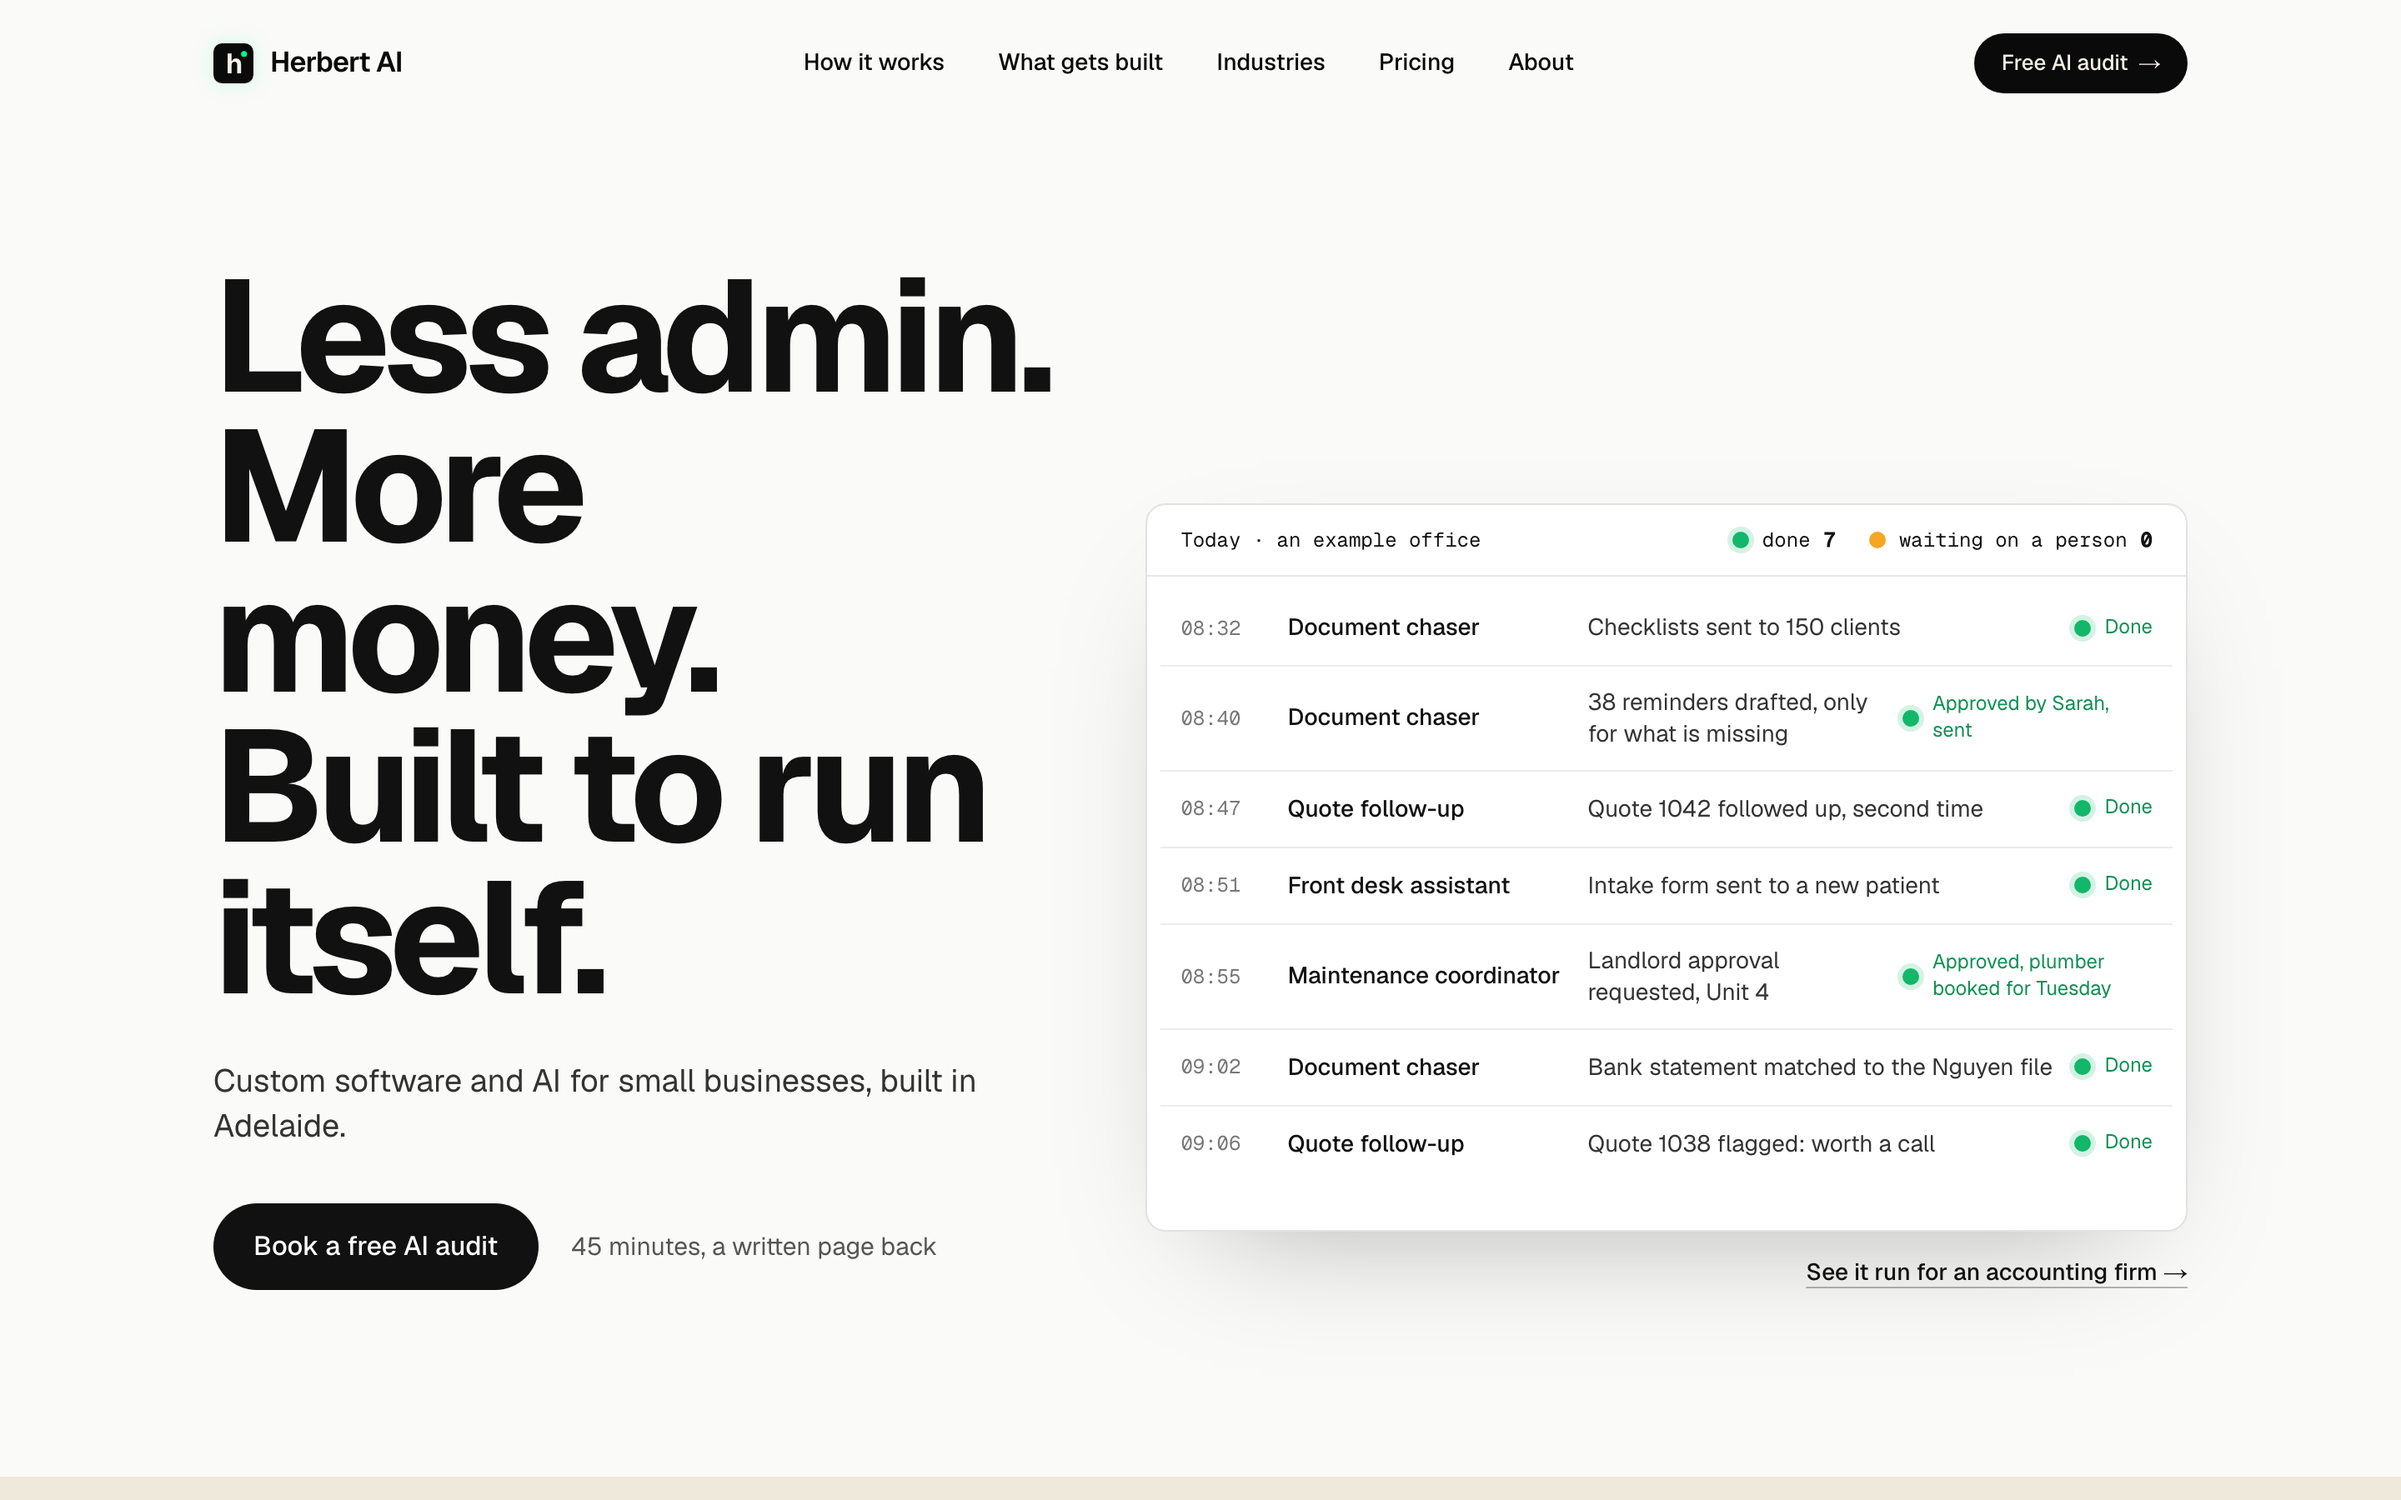
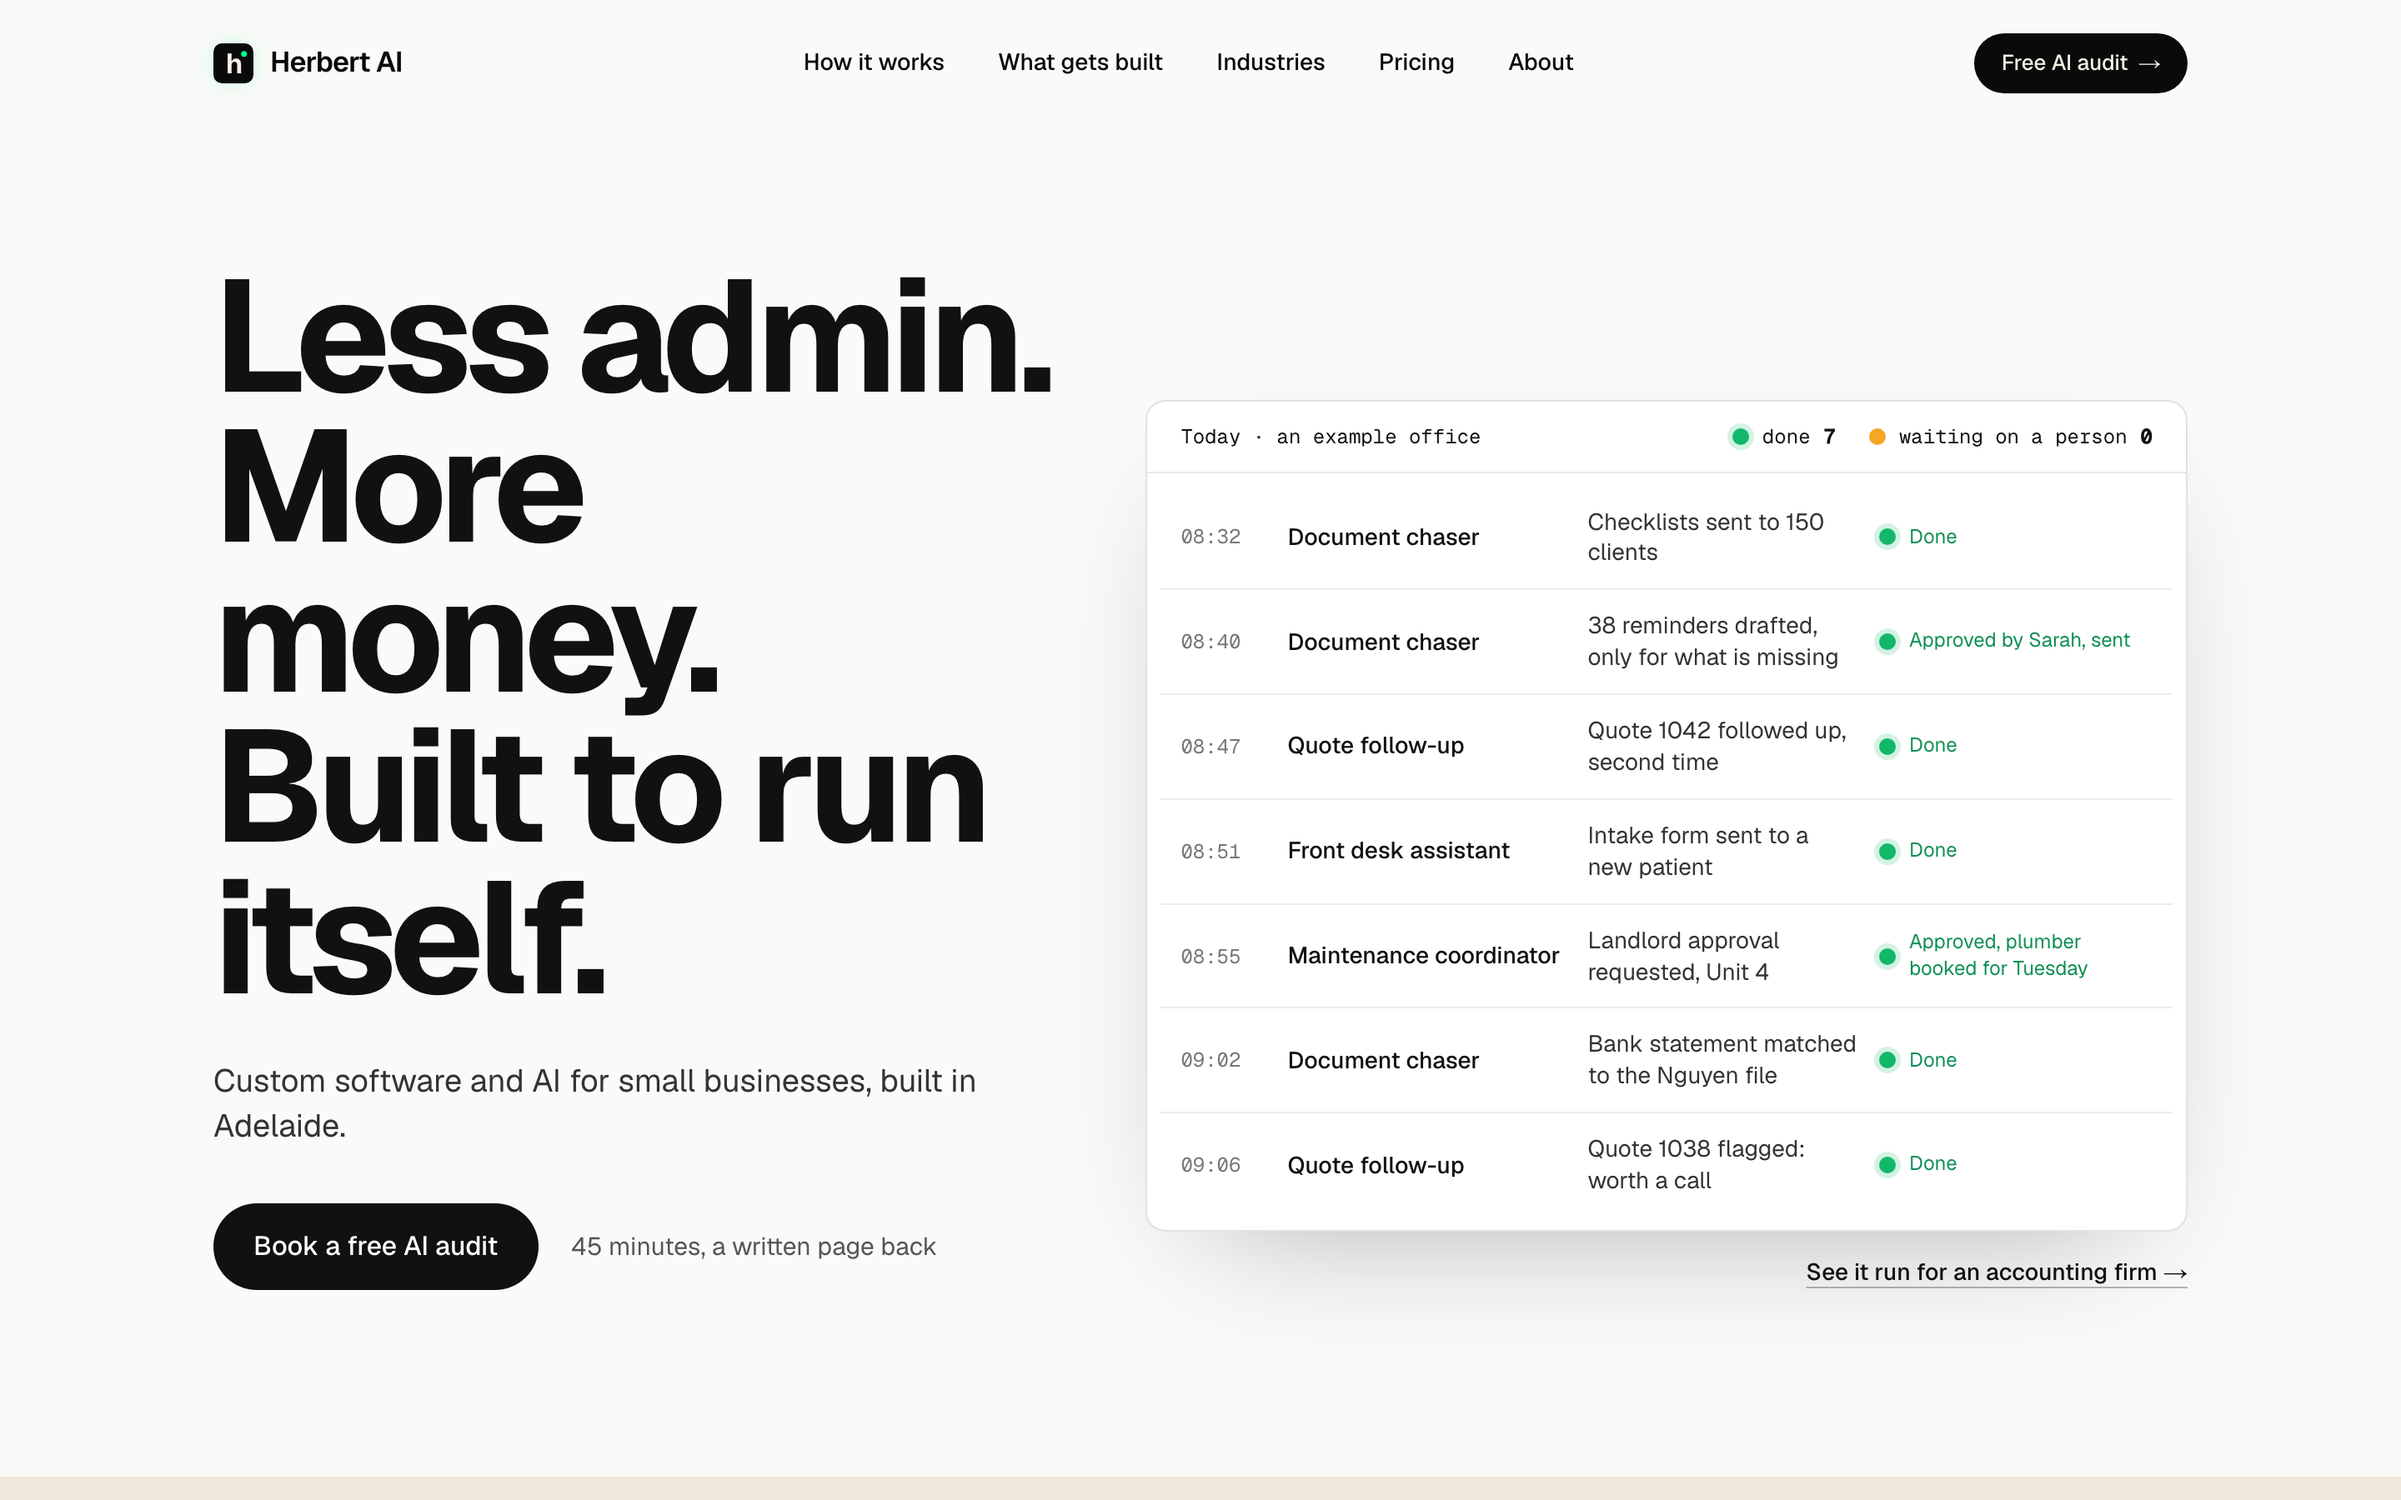
board: fixed-width status column so every status lines up; demo link dropped from the hero tweaks

diff --git a/herbertai-website/src/app/components/runs/HeroBoard.js b/herbertai-website/src/app/components/runs/HeroBoard.js
@@ -37,6 +37,8 @@ export default function HeroBoard() {
         </span>
       </div>
       <div className="min-h-[392px] px-2 py-2">
+        {/* Each row is its own grid, so every column has a fixed width: an auto
+            column sizes per row and the statuses stop lining up. */}
         <AnimatePresence initial={false}>
           {b.shown.map((r) => (
             <motion.div
@@ -45,13 +47,13 @@ export default function HeroBoard() {
               initial={{ opacity: 0, y: 10 }}
               animate={{ opacity: 1, y: 0 }}
               transition={{ duration: 0.35 }}
-              className="grid grid-cols-[48px_1fr] md:grid-cols-[52px_168px_minmax(0,1fr)_auto] items-center gap-x-3 gap-y-1 px-3 py-3 border-b border-[#111]/8 last:border-0 text-[14px]"
+              className="grid grid-cols-[48px_1fr] md:grid-cols-[52px_168px_minmax(0,1fr)_164px] items-center gap-x-3 gap-y-1 px-3 py-3 border-b border-[#111]/8 last:border-0 text-[14px]"
             >
               <span className="text-[12px] text-[#777] tabular-nums font-mono">{r.t}</span>
               <span className="font-medium">{r.who}</span>
               <span className="col-start-2 md:col-start-auto leading-[1.35] text-[#333]">{r.what}</span>
               <span
-                className="col-start-2 md:col-start-auto flex items-center gap-2 text-[12px] leading-[1.3] md:max-w-[150px]"
+                className="col-start-2 md:col-start-auto flex items-center gap-2 text-[12px] leading-[1.3]"
                 style={{ color: r.state === 'done' ? '#0E8F53' : '#9A6300' }}
               >
                 <Lamp s={r.state} />

diff --git a/herbertai-website/docs/design/design-pass-site-2026-09.md b/herbertai-website/docs/design/design-pass-site-2026-09.md
@@ -363,7 +363,25 @@ detail at a time, three options each:
 8. Header: nav size and weight, and the header button, which says "Free AI
    audit" with an arrow while the hero's says "Book a free AI audit".
 
-Picks: (pending)
+Will, 6 Oct 2026, on the boards: "what 'demo' ? is this not the demo right
+there. and why is done on the right and the approved are to the left?"
+
+- Demo link: dropped. The board is the demo; the `/demo/*` pages are a longer
+  version of the same made-up example (one firm's season with the emails), made
+  for Harry to send prospects, so a link from the board proves nothing the
+  board does not. The critic's "nothing proves it is real" gap is answered, if
+  at all, by the work section further down (the live property dashboard), in
+  its own round. Recorded as a rule candidate: on the homepage, the product
+  shown is the demo; do not link out to another example of it.
+- Status alignment: a real defect, fixed. Each board row is its own grid, so
+  an auto-width status column took each row's own text width and short "Done"
+  sat further right than long "Approved by Sarah, sent". The column is now a
+  fixed 164px and every status dot starts at the same x (measured: all seven at
+  1127px at 1440 wide). Cost: at today's board width the job text wraps to two
+  lines, which strengthens the bigger-board tweak. The size board was redrawn
+  with the fix.
+
+Picks: board size (pending)
 
 
 
